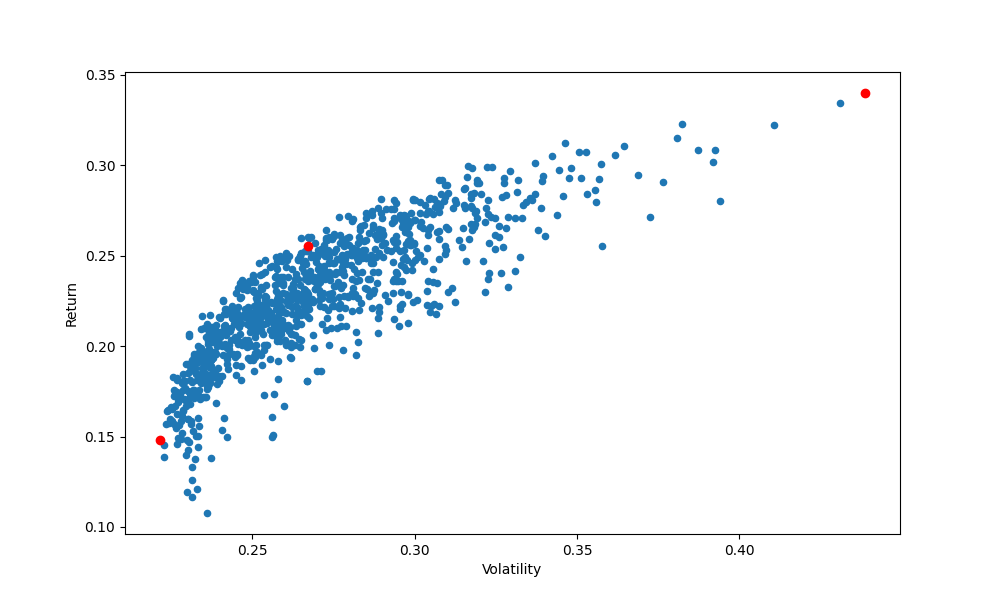
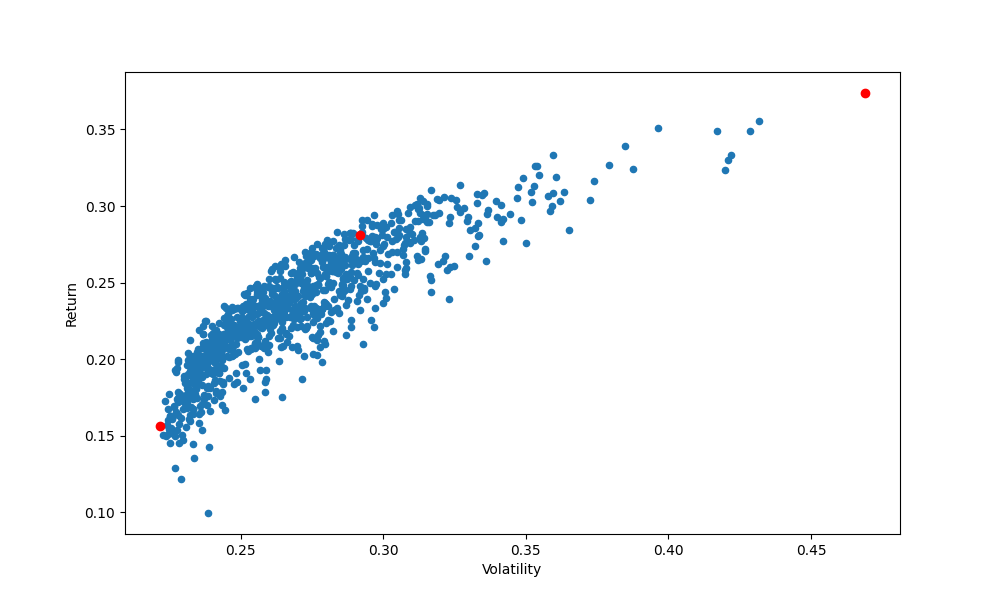
update

diff --git a/server/stock.py b/server/stock.py
@@ -18,35 +18,28 @@ class Stock:
         self.weights = np.array([0.25,0.25,0.25,0.25])
         self.mydata = portfolio(self.tickers)
 
+    def getMydata(self):
+        return self.mydata
+
+    def getWeights(self):
+        return self.weights
+    
+    def getTickers(self):
+        return self.tickers
+
     # Pesi delle singole azioni, ritorno annuale, ritorno annuale pesato e volatilità
     def recapKey(self):
         annual_returns = pf_return(self.mydata)
         annualReturnW = weigthedReturn(annual_returns, self.weights)
         x, y = dailyReturn(self.mydata)
-        recap( x, y )
+        recap(x,y)
+        stockRecap(self.mydata)
         volatility = pfRisk(annual_returns, self.tickers)
         #dailyReturn(self.mydata, self.weights)
         return annual_returns, annualReturnW, volatility, self.tickers
     
-    # Calculating Diversifiable and Non-Diversifiable Risk of a Portfolio
-
-    #diversifiable risk = port_var - weighted annual variances
-
-    #dir_risk = (print(volatility) - (weights[0]**2*sing_var('TSLA')) - (weights[1]**2*sing_var('AAPL'))- (weights[2]**2*sing_var('VGT')) - (weights[3]**2*sing_var('ORCL'))
-
-    #print( dir_risk)
-
-    #print('pf rounded div risk: ', str(round(dir_risk*100,3))+'%')
-
-    #non_dir_risk = portfolio_var - dir_risk
-
-    #print('pf non div risk: ', non_dir_risk)
-
-    #print('rounded pf non div risk: ', str(round(non_dir_risk*100,3))+'%')
-
-
     #Markowitz Portfolio Optimization
-    def modifica(self):
+    def markovitz(self):
         covRetLog = pfCov(self.mydata)
         corrRetLog = pfCorr(self.mydata)
         num_assets = len(self.tickers)
@@ -64,7 +57,6 @@ class Stock:
             pf_returns.append(np.sum( weights_m * returns(self.mydata).mean() ) * 250)
             pf_vol.append(np.sqrt(np.dot( weights_m.T, np.dot( covRetLog, weights_m ))))
 
-
         weig_list = [np.round(num, 4) for num in weig_list]
         pf_returns = np.array(pf_returns)
         pf_vol = np.array(pf_vol)
@@ -72,20 +64,22 @@ class Stock:
         #create a dataframe containings three features
         portfolios = pd.DataFrame({'Return': pf_returns, 'Volatility': pf_vol, 'weig_list': weig_list})
         # Find our 3 best porfolios
-        def bestMarkPf(portfolios):
-            maxRet = portfolios['Return'].argmax()
-            minVol = portfolios['Volatility'].argmin()
-            avgRet = (portfolios['Return'].argmax()//3)
-            return maxRet, minVol, avgRet
 
-        maxReturnPf, minVolatilityPf, avgReturnPf = bestMarkPf(portfolios)  
+        maxReturnPf = portfolios['Return'].argmax()
+        minVolatilityPf = portfolios['Volatility'].argmin()
+        avgReturnPf = portfolios['Return'].argmax()//3
         pfpuntoMaxRet = portfolios.iloc[maxReturnPf]
         pfpuntoMinVol  = portfolios.iloc[minVolatilityPf]
         pfpuntoAvgRet = portfolios.iloc[avgReturnPf]
-        #print(portfolios.iloc[maxReturnPf])
         #plot efficient frontier 
-        portfolios.plot( x = 'Volatility', y = 'Return', kind = 'scatter', figsize = (10,6) )
-        plt.scatter( x = pfpuntoMaxRet['Volatility'], y = pfpuntoMaxRet['Return'], c = 'r')
-        plt.scatter( x = pfpuntoMinVol['Volatility'], y = pfpuntoMinVol['Return'], c = 'r')
-        plt.scatter( x = pfpuntoAvgRet['Volatility'], y = pfpuntoAvgRet['Return'], c = 'r')
-        plt.savefig('../img/frontier.png')
+        stockMarkovitz(portfolios, pfpuntoMaxRet, pfpuntoMinVol, pfpuntoAvgRet)
+
+        return  pfpuntoMaxRet, pfpuntoMinVol, pfpuntoAvgRet
+    
+    """
+    def bestMarkPf(self, portfolios):
+        maxRet = portfolios['Return'].argmax()
+        minVol = portfolios['Volatility'].argmin()
+        avgRet = (portfolios['Return'].argmax()//3)
+        return maxRet, minVol, avgRet
+    """

diff --git a/server/MC_Simulation.py b/server/MC_Simulation.py
@@ -19,67 +19,62 @@ import pandas as pd
 from pandas_datareader import data as wb
 import matplotlib.pyplot as plt
 from scipy.stats import norm
-get_ipython().run_line_magic('matplotlib', 'inline')
+from IPython import get_ipython
+from Stock_Functions import *
+#get_ipython().run_line_magic('matplotlib', 'inline')
+
 
 
 
 
 #Import data
-ticker = "PG"
-data = pd.DataFrame()
-data[ticker] = wb.DataReader(ticker, data_source = "yahoo", start = "2007-1-1")["Adj Close"]
+ticker = ['TSLA', 'AAPL', 'VGT', 'AMZN']
+mydata = pd.DataFrame()
+mydata[ticker] = wb.DataReader(ticker, data_source = "yahoo", start = "2015-1-1")["Adj Close"]
 
 
 
+daily = (mydata/ mydata.shift(1)).mean(axis = 1) - 1
+#print(daily)
+log_returns = np.log( 1 + daily)
 
-#Calculate log returns
-log_returns = np.log(1 + data.pct_change())
+lenght = daily.size
+new_list=[] 
+j=0
+for i in range(1, lenght):
+    j+=daily.iloc[i]
+    new_list.append(j)
 
-
-
-
-#Check
-log_returns.tail()
-
-
-
-
-#Plot prices
-data.plot(figsize=(10, 6))
-
+dailyPortfolio = [10000 + (x * 10000) for x in new_list]
 
 
 
 #Plot of log return (data normally distributed)
-log_returns.plot(figsize=(10, 6))
+#log_returns.plot(figsize=(10, 6))
 
 
 
 
 #Compute the mean of log returns
 u = log_returns.mean()
-print(u)
+print('media ', round(u, 3))
 
 
 
 
-#Compute the mean of log returns
+#Compute the var of log returns
 var = log_returns.var()
-print(var)
-
-
+print('varianza ', round(var, 5))
 
 
 #Compute the drift component
 drift = u - (0.5 * var)
-print(drift)
-
-
+print('drift ', round(drift, 5) )
 
 
 #Compute st dev
 stdev = log_returns.std()
-print(stdev)
+print('standard dev ', round(stdev, 5) )
 
 
 
@@ -90,20 +85,13 @@ print(stdev)
 
 
 #Check if drift is a pandas series
-type(drift)
+l = pd.Series(drift)
+drift = l
+drVal = drift.values
 
-
-
-
-#Check if drift is a pandas series
-type(stdev)
-
-
-
-
-#Convert value into a np array
-drift.values
-stdev.values
+l = pd.Series(stdev)
+stdev = l
+stdVal = stdev.values
 
 
 
@@ -115,7 +103,7 @@ stdev.values
 
 
 #Norm distribution function with 95%
-norm.ppf(0.95)
+print(norm.ppf(0.95))
 
 
 
@@ -143,13 +131,13 @@ print(Z)
 
 
 #Number of upcoming days for which we make forecasts
-t_intervals = 1000
+t_intervals = 1850
 
 
 
 
 #Number of iterations of series stock price predictions
-iterations = 10
+iterations = 5
 
 
 
@@ -163,7 +151,7 @@ print(daily_returns)
 
 #We need to create a price list
 #Each price must be equal to: St = S0 * daily_return
-S0 = data.iloc[-1]
+S0 = dailyPortfolio[-1]
 print(S0)
 
 
@@ -193,4 +181,5 @@ print(price_list)
 #Plot 
 plt.figure(figsize=(10, 6))
 plt.plot(price_list)
+plt.show()
 

diff --git a/server/keyboard.py b/server/keyboard.py
@@ -16,20 +16,27 @@ def firstKeyboard(bot, chat_id):
     stock.initData()
 
 def analysisKeyboard(bot, chat_id):
-    btn1 = KeyboardButton(text = 'Markovitz')
+    btn1 = KeyboardButton(text = 'Markowitz')
     btn2 = KeyboardButton(text = 'CAPM')
     keyboard = [[btn1, btn2]]
     send_keyboard(bot, keyboard, chat_id, '<strong>Portfolio Analysis</strong>')        
 
 def sendRecap(bot, chat_id):
     annual_returns, annualReturnW, volatility, tickers = stock.recapKey()
-    send_message(bot, chat_id, 'The annual return of the portfolio is: ' + str(round(annualReturnW, 3)) + '%\n' \
-        + 'The volatility of the porfolio is: ' + str( round( (volatility*100), 2) ) + '%\n')
     message = ''
     for i in range(len(annual_returns)):
-        message += ('The single annual return of the stock ' + tickers[i] + ' is ' +\
+        message += ('The single annual return of the stock ' + tickers[i] + ' is ' + \
              str( round(annual_returns.get(i)*100, 2) ) + '%\n' )
     send_message(bot, chat_id, message)
+    sendImage(bot, chat_id, 'stockRecap.png')
+    send_message(bot, chat_id, 'The annual return of the portfolio is: ' + str(round(annualReturnW, 3)) + '%\n' \
+        + 'The volatility of the porfolio is: ' + str( round( (volatility*100), 2) ) + '%\n')
+    
+def sendMarkowitz(bot, chat_id):
+    pfpuntoMaxRet, pfpuntoMinVol, pfpuntoAvgRet = stock.markovitz()
+    print(pfpuntoMaxRet, pfpuntoMinVol, pfpuntoAvgRet)
+
+
 
 def sendImage(bot, chat_id, img):
     image = '../img/' + img

diff --git a/server/Stock_Functions.py b/server/Stock_Functions.py
@@ -47,6 +47,21 @@ def recap(x, y):
     plt.xlabel('Days')
     plt.savefig('../img/recap.png')
 
+def stockRecap(mydata):
+    mydata.plot(figsize=(16,8))
+    plt.plot(mydata)
+    plt.ylabel('Stock prices')
+    plt.xlabel('Days')
+    plt.savefig('../img/stockRecap.png')
+
+def stockMarkovitz(portfolios, pfpuntoMaxRet, pfpuntoMinVol, pfpuntoAvgRet):
+    portfolios.plot( x = 'Volatility', y = 'Return', kind = 'scatter', figsize = (10,6) )
+    plt.scatter( x = pfpuntoMaxRet['Volatility'], y = pfpuntoMaxRet['Return'], c = 'r')
+    plt.scatter( x = pfpuntoMinVol['Volatility'], y = pfpuntoMinVol['Return'], c = 'r')
+    plt.scatter( x = pfpuntoAvgRet['Volatility'], y = pfpuntoAvgRet['Return'], c = 'r')
+    plt.savefig('../img/frontier.png')
+
+
 def returnsLog(mydata):
     return np.log(mydata / mydata.shift(1))
 

diff --git a/server/main.py b/server/main.py
@@ -36,6 +36,9 @@ def main():
                 elif handler.getMessage() == 'Recap':
                     sendImage(bot, handler.getChatId(), 'recap.png')
                     sendRecap(bot, handler.getChatId())
+                elif handler.getMessage() == 'Markowitz':
+                    sendImage(bot, handler.getChatId(), 'frontier.png')
+                    sendMarkowitz(bot, handler.getChatId())   
                 else:
                     send_message(bot, handler.getChatId(), "Sorry, this function is not available yet!")
                 update_id += 1
